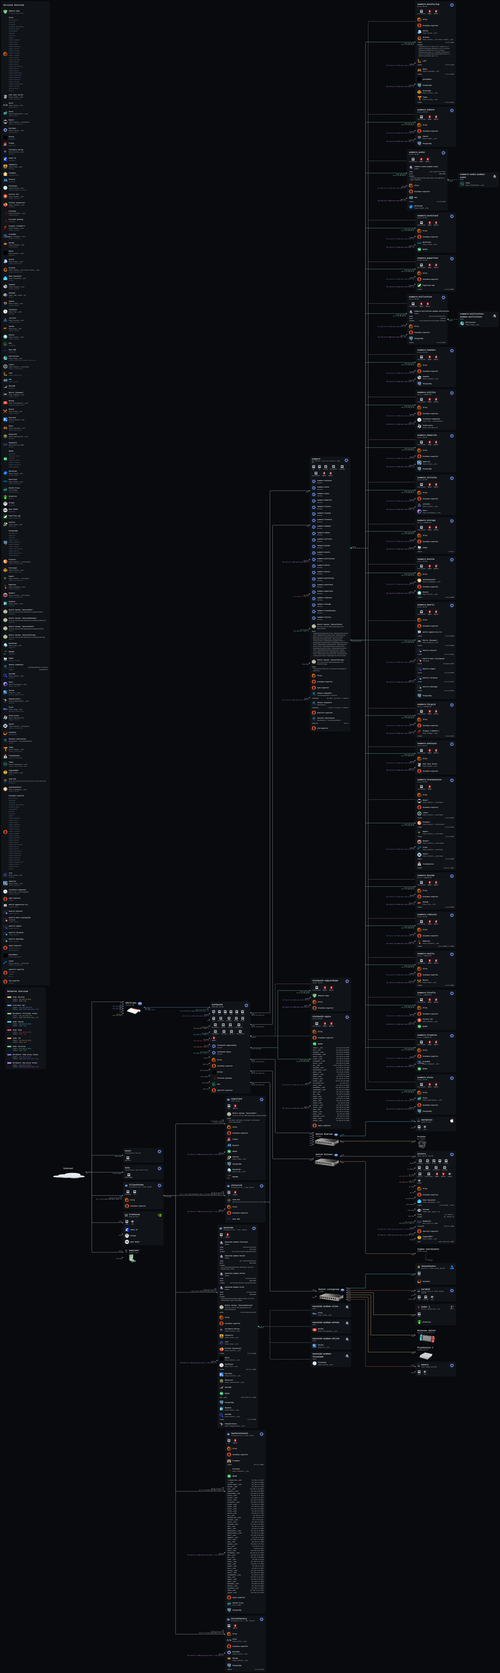
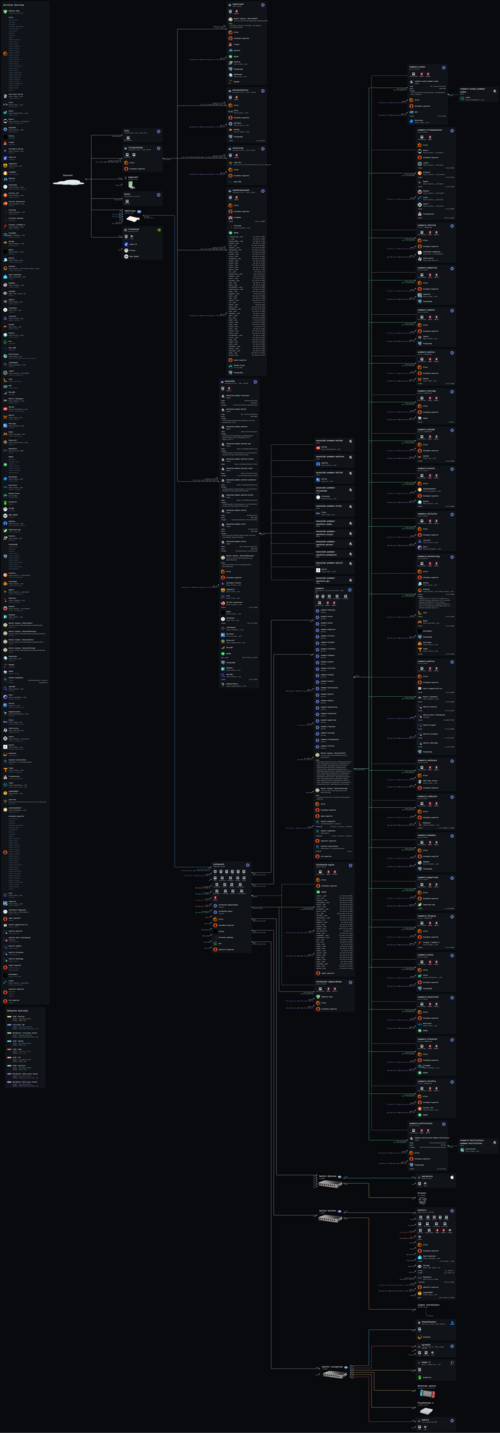
feat[server]: add librespeed

diff --git a/.github/README.md b/.github/README.md
@@ -117,6 +117,7 @@
 | 📺 **Video Streaming**       | [Invidious](https://github.com/Swarsel/.dotfiles/tree/main/modules/server/services/invidious.nix) + [Invidious Companion](https://github.com/Swarsel/.dotfiles/tree/main/modules/server/services/invidious-companion.nix)                                                                                                                                                                                                                                                                                                                                                                                                                                   |
 | 📼 **Videos**                | [Jellyfin](https://github.com/Swarsel/.dotfiles/tree/main/modules/server/services/jellyfin.nix)                                                                                                                                                                                                                                                                                                                                                                                                                                                                                                                                                             |
 | 🔄 **File Sync**             | [Syncthing](https://github.com/Swarsel/.dotfiles/tree/main/modules/server/services/syncthing.nix)                                                                                                                                                                                                                                                                                                                                                                                                                                                                                                                                                           |
+| 🚀 **Speedtest**             | [LibreSpeed](https://github.com/Swarsel/.dotfiles/tree/main/modules/server/services/librespeed.nix)                                                                                                                                                                                                                                                                                                                                                                                                                                                                                                                                                         |
 | 🔎 **Search Engine**         | [SearXNG](https://github.com/Swarsel/.dotfiles/tree/main/modules/server/services/searx.nix)                                                                                                                                                                                                                                                                                                                                                                                                                                                                                                                                                                 |
 | 🔑 **Cert-based SSH**        | [OPKSSH](https://github.com/Swarsel/.dotfiles/tree/main/modules/server/infra/opkssh.nix)                                                                                                                                                                                                                                                                                                                                                                                                                                                                                                                                                                    |
 | 🔗 **Link Shortener**        | [Shlink](https://github.com/Swarsel/.dotfiles/tree/main/modules/server/services/shlink.nix)                                                                                                                                                                                                                                                                                                                                                                                                                                                                                                                                                                 |
